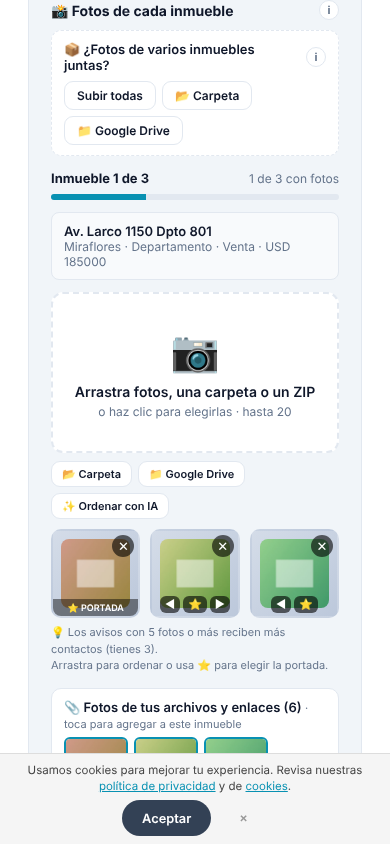
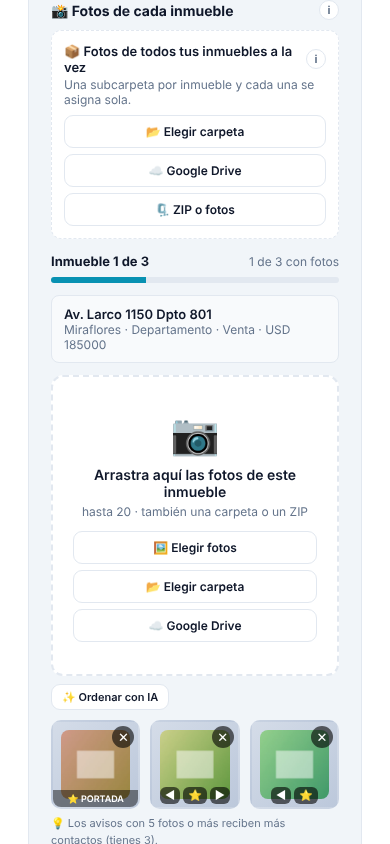
feat(fotos): fuentes de fotos claras — Elegir fotos, Elegir carpeta y Google Drive en un solo lugar
- Cada zona de fotos (Publicar uno, Subir varios y editor 📷 Fotos) tiene
  dentro las tres formas de traer fotos con el mismo nombre en todas partes:
  🖼 Elegir fotos (o un ZIP), 📂 Elegir carpeta y ☁ Google Drive. Ya no se
  repiten bajo la tira; ahí queda solo ✨ Ordenar con IA (con 2+ fotos).
- Barra de varios inmuebles: "📦 Fotos de todos tus inmuebles a la vez — Una
  subcarpeta por inmueble y cada una se asigna sola", con Elegir carpeta,
  Google Drive y ZIP o fotos; el ejemplo y el detalle en ⓘ.
- Ventana de Google Drive: 3 pasos numerados (Compartir → Cualquier persona
  con el enlace → Copiar enlace → pegar) y "tu carpeta no cambia".
- Tests y capturas actualizados.

Claude-Session: https://claude.ai/code/session_01XtnRGX13fvBQF8o6qyWVXV

diff --git a/index.html b/index.html
@@ -6858,8 +6858,9 @@ function _rps(){
           ondragleave="this.classList.remove('drag')"
           ondrop="_pubDropPhotos(event,_pubHandleFiles)">
           <div class="dz-icon">📷</div>
-          <div class="dz-lbl">Arrastra fotos, una carpeta o un ZIP</div>
-          <div class="dz-sub">o haz clic para elegirlas · mínimo 3, máximo ${_PUB_MAX_PHOTOS} · la primera es la portada</div>
+          <div class="dz-lbl">Arrastra aquí las fotos</div>
+          <div class="dz-sub">mínimo 3, máximo ${_PUB_MAX_PHOTOS} · la primera es la portada</div>
+          ${_pubPhotoSourcesHTML('pd')}
         </label>
         <input type="file" id="pubFileInput" accept="${_PUB_PHOTO_ACCEPT}" multiple style="position:absolute;width:1px;height:1px;overflow:hidden;clip:rect(0,0,0,0);opacity:0" onchange="_pubHandleFiles(this.files)">
         <div class="pub-photos" id="pubPhotoPreview" style="margin-top:12px">${_pubPhotoStripHTML('pd',_pd.photos)}</div>
@@ -7218,10 +7219,13 @@ function _pubDropPhotos(ev,fn){
   if(ev.currentTarget) ev.currentTarget.classList.remove('drag');
   _pubDroppedFiles(ev.dataTransfer).then(fn);
 }
+// Elegir fotos sueltas o un ZIP y pasarlos a fn.
+function _pubPickFiles(fn){ _pubPickFolder(fn,true); }
 // Elegir una carpeta entera (con sus subcarpetas) y pasarla a fn.
-function _pubPickFolder(fn){
+function _pubPickFolder(fn,sueltas){
   const inp=document.createElement('input');
-  inp.type='file'; inp.multiple=true; inp.setAttribute('webkitdirectory',''); inp.setAttribute('directory','');
+  inp.type='file'; inp.multiple=true;
+  if(sueltas) inp.accept=_PUB_PHOTO_ACCEPT; else { inp.setAttribute('webkitdirectory',''); inp.setAttribute('directory',''); }
   inp.style.cssText='position:absolute;left:-9999px;width:1px;height:1px;opacity:0';
   inp.onchange=()=>{ const files=Array.from(inp.files||[]); inp.remove(); fn(files); };
   document.body.appendChild(inp);
@@ -7290,8 +7294,11 @@ function _pubPeRender(){
     <div class="pub-photos" id="pubPePhotos">${_pubPhotoStripHTML('pe',_pe.photos)}</div>
     ${_pubPhotoAdviceHTML(_pe.photos)}
     ${_pubPhotoToolsHTML('pe')}
-    <label class="pub-btn ghost" style="display:inline-block;font-size:12px;padding:7px 14px;margin-top:10px;cursor:pointer">+ Agregar fotos
-      <input type="file" accept="${_PUB_PHOTO_ACCEPT}" multiple style="display:none" onchange="_pubPeAdd(this.files);this.value=''"></label>
+    <div style="margin-top:12px;padding:12px;border:2px dashed var(--border);border-radius:10px;text-align:center"
+      ondragover="event.preventDefault()" ondrop="_pubDropPhotos(event,_pubPeAdd)">
+      <div style="font-size:13px;font-weight:600">+ Agregar fotos</div>
+      ${_pubPhotoSourcesHTML('pe')}
+    </div>
     <div style="display:flex;justify-content:flex-end;gap:8px;margin-top:14px">
       <button class="pub-btn primary" id="pubPeSave" ${_pe.guardando?'disabled':''} onclick="_pubPeSave()">${_pe.guardando?'Guardando…':`Guardar${nuevas?` (${nuevas} nueva${nuevas!==1?'s':''})`:''}`}</button>
     </div></div>`;
@@ -7421,14 +7428,24 @@ async function _pubPhotoAiRun(ns){
     _pubPhotoAiBusy=null; _pubPhotoRefresh(ns);
   }
 }
-// Botones bajo la tira de fotos: Google Drive y ordenar con IA.
+// Las tres formas de traer fotos, siempre juntas y con el mismo nombre:
+// fotos sueltas (o un ZIP), una carpeta de la computadora y Google Drive.
+// Van dentro de la zona de fotos (por eso no propagan el clic).
+function _pubPhotoSourcesHTML(ns){
+  const b='flex:1 1 140px;font-size:12px;padding:8px 10px';
+  const no='event.preventDefault();event.stopPropagation();';
+  return `<div class="pub-photo-sources" style="display:flex;gap:6px;flex-wrap:wrap;justify-content:center;margin-top:12px;width:100%;max-width:520px;margin-left:auto;margin-right:auto">
+    <button type="button" class="pub-btn ghost" style="${b}" onclick="${no}_pubPickFiles(f=>_pubDriveAdd('${ns}',f))" title="Fotos sueltas o un ZIP de tu computadora o celular">🖼 Elegir fotos</button>
+    <button type="button" class="pub-btn ghost" style="${b}" onclick="${no}_pubPickFolder(f=>_pubDriveAdd('${ns}',f))" title="Todas las fotos de una carpeta de tu computadora">📂 Elegir carpeta</button>
+    <button type="button" class="pub-btn ghost" style="${b}" onclick="${no}_pubDriveOpen('${ns}')" title="Pega el enlace de una carpeta compartida de Google Drive">☁ Google Drive</button>
+  </div>`;
+}
+// Bajo la tira de fotos: ordenar con IA (con 2 fotos o más).
 function _pubPhotoToolsHTML(ns){
   const n=_pubPhotoListOf(ns).length;
-  const b='font-size:11px;padding:5px 10px';
+  if(!_AI_COPY_ENABLED || n<2) return '';
   return `<div class="pub-photo-tools" style="display:flex;gap:6px;flex-wrap:wrap;margin-top:8px">
-    <button type="button" class="pub-btn ghost" style="${b}" onclick="_pubPickFolder(f=>_pubDriveAdd('${ns}',f))" title="Elige una carpeta de tu computadora">📂 Carpeta</button>
-    <button type="button" class="pub-btn ghost" style="${b}" onclick="_pubDriveOpen('${ns}')">📁 Google Drive</button>
-    ${_AI_COPY_ENABLED&&n>1?`<button type="button" class="pub-btn ghost" style="${b}" ${_pubPhotoAiBusy?'disabled':''} onclick="_pubPhotoAiRun('${ns}')" title="Elige la portada, ordena por ambientes y avisa de marcas de agua">${_pubPhotoAiBusy===ns?'✨ Revisando fotos…':'✨ Ordenar con IA'}</button>`:''}
+    <button type="button" class="pub-btn ghost" style="font-size:11px;padding:5px 10px" ${_pubPhotoAiBusy?'disabled':''} onclick="_pubPhotoAiRun('${ns}')" title="Elige la portada, ordena por ambientes y avisa de marcas de agua">${_pubPhotoAiBusy===ns?'✨ Revisando fotos…':'✨ Ordenar con IA'}</button>
   </div>`;
 }
 
@@ -7599,15 +7616,19 @@ function _pubDriveRender(){
   const r=_drv.res, ocupado=!!_drv.estado;
   const elegir=r && !ocupado && _drv.ns!=='batch' && r.carpetas.length;
   ov.innerHTML=`<div class="us-card" style="width:100%;max-width:560px;margin:0">
-    <div style="display:flex;justify-content:space-between;align-items:center;gap:8px"><div style="font-weight:800;font-size:1.05rem">📁 Fotos desde Google Drive</div>
+    <div style="display:flex;justify-content:space-between;align-items:center;gap:8px"><div style="font-weight:800;font-size:1.05rem">☁ Traer fotos de Google Drive</div>
       <button class="pub-btn ghost" style="font-size:12px;padding:6px 12px" ${ocupado?'disabled':''} onclick="_pubDriveClose()">Cerrar</button></div>
-    <div style="font-size:.8rem;color:var(--muted);margin:6px 0 10px;line-height:1.5">Pega el enlace de la carpeta (o de una foto). En Drive: <b>Compartir → Acceso general → Cualquier persona con el enlace</b> → Copiar enlace.
-      ${_drv.ns==='batch'?'<br>Si la carpeta tiene <b>una subcarpeta por inmueble</b>, armamos un grupo con cada una.':''}</div>
+    <ol style="font-size:.82rem;line-height:1.6;margin:8px 0 10px;padding-left:20px">
+      <li>En Google Drive, clic derecho en la carpeta${_drv.ns==='batch'?' (la que tiene una subcarpeta por inmueble)':' de este inmueble'} → <b>Compartir</b>.</li>
+      <li>En "Acceso general" elige <b>Cualquier persona con el enlace</b> y toca <b>Copiar enlace</b>.</li>
+      <li>Pégalo aquí:</li>
+    </ol>
     <div style="display:flex;gap:6px;flex-wrap:wrap">
       <input id="pubDriveLink" type="url" placeholder="https://drive.google.com/drive/folders/…" value="${esc(_drv.link)}" ${ocupado?'disabled':''}
         onkeydown="if(event.key==='Enter')_pubDriveLink()" style="flex:1;min-width:200px;border:1px solid var(--border);border-radius:8px;padding:8px 10px;font-size:13px">
       <button class="pub-btn primary" style="font-size:12px;padding:7px 14px" ${ocupado?'disabled':''} onclick="_pubDriveLink()">Traer fotos</button>
     </div>
+    <div style="font-size:11px;color:var(--muted);margin-top:6px">Copiamos las fotos a ReCo; tu carpeta no cambia.</div>
     ${_GOOGLE_DRIVE.clientId?`<div style="text-align:center;font-size:11px;color:var(--muted);margin:10px 0 6px">o, si la carpeta no está compartida</div>
       <button class="pub-btn ghost" style="width:100%;font-size:12px;padding:8px" ${ocupado?'disabled':''} onclick="_pubDrivePick()">Elegir fotos de mi Google Drive</button>`:''}
     <div id="pubDriveStatus" style="font-size:12px;margin-top:10px;color:${_drv.error?'var(--red)':'var(--muted)'}">${esc(_drv.error||_drv.estado)}</div>
@@ -8411,16 +8432,18 @@ function _pubPhotoBatchHTML(rows){
   if(!_pubPhotoGroups.length){
     // Con un solo inmueble basta la zona de fotos de abajo.
     if(rows.length<2) return input;
-    const ayuda='Sube las fotos de todos tus inmuebles juntas (fotos sueltas, una carpeta, un ZIP o Google Drive). Si vienen en una subcarpeta por inmueble, cada subcarpeta va a su inmueble; si no, las agrupamos por fecha y lugar. Después revisas y confirmas.';
-    const b='font-size:12px;padding:6px 12px';
-    return `${input}<div style="display:flex;align-items:center;gap:8px;flex-wrap:wrap;margin-top:10px;padding:10px 12px;border:1px dashed var(--border);border-radius:10px;background:#fff"
+    const ayuda='Ordena las fotos en una carpeta con una subcarpeta por inmueble, por ejemplo "Fotos/Av. Pardo 340" y "Fotos/Jr. Huiracocha 1200", y súbela entera (desde tu computadora, como ZIP o desde Google Drive). Cada subcarpeta se asigna sola al inmueble con el nombre más parecido. Si las fotos no están en subcarpetas, las agrupamos por fecha y lugar. Siempre revisas antes de confirmar.';
+    const b='flex:1 1 140px;font-size:12px;padding:8px 10px';
+    return `${input}<div style="margin-top:10px;padding:12px;border:1px dashed var(--border);border-radius:10px;background:#fff"
         ondragover="event.preventDefault()" ondrop="_pubDropPhotos(event,_pubPhotoBatchFiles)">
-      <span style="display:inline-flex;align-items:center;gap:6px;font-size:13px;font-weight:600">📦 ¿Fotos de varios inmuebles juntas? ${_pubInfoHTML('pubLoteAyuda',ayuda)}</span>
-      <span style="margin-left:auto;display:flex;gap:6px;flex-wrap:wrap">
-        <button class="pub-btn ghost" style="${b}" onclick="document.getElementById('pubBatchInput').click()">Subir todas</button>
-        <button class="pub-btn ghost" style="${b}" onclick="_pubPickFolder(_pubPhotoBatchFiles)">📂 Carpeta</button>
-        <button class="pub-btn ghost" style="${b}" onclick="_pubDriveOpen('batch')">📁 Google Drive</button>
-      </span></div>${_pubInfoBoxHTML('pubLoteAyuda',ayuda)}`;
+      <div style="display:flex;align-items:center;gap:6px;font-size:13px;font-weight:600">📦 Fotos de todos tus inmuebles a la vez<span style="margin-left:auto"></span>${_pubInfoHTML('pubLoteAyuda',ayuda)}</div>
+      <div style="font-size:12px;color:var(--muted);margin-top:2px">Una subcarpeta por inmueble y cada una se asigna sola.</div>
+      ${_pubInfoBoxHTML('pubLoteAyuda',ayuda)}
+      <div style="display:flex;gap:6px;flex-wrap:wrap;margin-top:8px">
+        <button class="pub-btn ghost" style="${b}" onclick="_pubPickFolder(_pubPhotoBatchFiles)" title="La carpeta con una subcarpeta por inmueble">📂 Elegir carpeta</button>
+        <button class="pub-btn ghost" style="${b}" onclick="_pubDriveOpen('batch')" title="Pega el enlace de la carpeta compartida">☁ Google Drive</button>
+        <button class="pub-btn ghost" style="${b}" onclick="document.getElementById('pubBatchInput').click()" title="Un ZIP o muchas fotos sueltas">🗜 ZIP o fotos</button>
+      </div></div>`;
   }
   const opts=sel=>`<option value="-1"${sel===-1?' selected':''}>— no asignar —</option>`+rows.map((r,i)=>`<option value="${i}"${sel===i?' selected':''}>${i+1}. ${esc(String(r.row.direccion||r.row.titulo||'').slice(0,40))}</option>`).join('');
   return `${input}<div style="margin-top:12px;border:1px solid var(--border);border-radius:10px;padding:10px 12px;background:#fff">
@@ -8463,8 +8486,9 @@ function _pubBulkPhotosHTML(){
       ondragleave="this.classList.remove('drag')"
       ondrop="_pubDropPhotos(event,_pubBulkPhotoFiles)">
       <div class="dz-icon">📷</div>
-      <div class="dz-lbl">Arrastra fotos, una carpeta o un ZIP</div>
-      <div class="dz-sub">o haz clic para elegirlas · hasta ${_PUB_BULK_PHOTO_MAX}</div>
+      <div class="dz-lbl">Arrastra aquí las fotos de este inmueble</div>
+      <div class="dz-sub">hasta ${_PUB_BULK_PHOTO_MAX} · también una carpeta o un ZIP</div>
+      ${_pubPhotoSourcesHTML('bulk')}
     </div>
     <input type="file" id="pubBulkPhotoInput" accept="${_PUB_PHOTO_ACCEPT}" multiple
       style="position:absolute;left:-9999px;top:0;width:1px;height:1px;opacity:0;pointer-events:none"

diff --git a/tests/fotos-carpetas.spec.js b/tests/fotos-carpetas.spec.js
@@ -37,8 +37,10 @@ test.describe('Fotos desde la computadora', () => {
       return { n: _pubBulkCurrentRow().photos.length, html: document.getElementById('pubBulkStepBody').innerHTML };
     });
     expect(r.n).toBe(2);
-    expect(r.html).toContain('Arrastra fotos, una carpeta o un ZIP');
-    expect(r.html).toContain('📂 Carpeta');
+    expect(r.html).toContain('Arrastra aquí las fotos de este inmueble');
+    expect(r.html).toContain('🖼 Elegir fotos');
+    expect(r.html).toContain('📂 Elegir carpeta');
+    expect(r.html).toContain('☁ Google Drive');
     expect(r.html).not.toContain('Agrega las fotos, inmueble por inmueble');
   });
 
@@ -64,7 +66,7 @@ test.describe('Fotos desde la computadora', () => {
       await _pubPhotoBatchFiles([zip]);
       return { html, grupos: _pubPhotoGroups.map((g) => ({ nombre: g.nombre, n: g.photos.length, row: g.row })) };
     });
-    expect(r.html).toContain('¿Fotos de varios inmuebles juntas?');
+    expect(r.html).toContain('Fotos de todos tus inmuebles a la vez');
     expect(r.grupos).toEqual([
       { nombre: 'Huiracocha 1200', n: 2, row: 1 },
       { nombre: 'Pardo 340 Miraflores', n: 1, row: 0 },
@@ -79,7 +81,7 @@ test.describe('Fotos desde la computadora', () => {
       _pubBulkRefresh();
       return document.getElementById('pubBulkStepBody').innerHTML;
     });
-    expect(r).not.toContain('¿Fotos de varios inmuebles juntas?');
+    expect(r).not.toContain('Fotos de todos tus inmuebles a la vez');
     expect(r).toContain('📎 Fotos de tus archivos y enlaces (2)');
   });
 });

diff --git a/tests/fotos-ia-drive.spec.js b/tests/fotos-ia-drive.spec.js
@@ -58,8 +58,9 @@ test.describe('Fotos con IA', () => {
         strip: _pubPhotoStripHTML('pd', _pd.photos), advice: _pubPhotoAdviceHTML(_pd.photos), toasts: __toasts.join(' | ') };
     });
     expect(r.tools).toContain('✨ Ordenar con IA');
-    expect(r.tools).toContain('📁 Google Drive');
-    expect(r.tools).toContain('📂 Carpeta');
+    const fuentes = await page.evaluate(() => _pubPhotoSourcesHTML('pd'));
+    expect(fuentes).toContain('☁ Google Drive');
+    expect(fuentes).toContain('📂 Elegir carpeta');
     expect(r.orden).toEqual([2, 0, 1]);
     expect(r.dims.every((d) => d <= 512)).toBe(true); // a la IA va una copia chica
     expect(r.issues).toEqual([[], [], ['Marca de agua']]);
@@ -176,7 +177,7 @@ test.describe('Fotos desde Google Drive', () => {
       Object.assign(__drive.archivos, { FOTOHUI001: { name: 'a.jpg', mimeType: 'image/jpeg' }, FOTOHUI002: { name: 'b.jpg', mimeType: 'image/jpeg' },
         FOTOPAR001: { name: 'c.jpg', mimeType: 'image/jpeg' } });
     });
-    await page.locator('#pubModal button', { hasText: '📁 Google Drive' }).first().click();
+    await page.locator('#pubModal button', { hasText: '☁ Google Drive' }).first().click();
     await expect(page.locator('#pubDriveOverlay')).toContainText('una subcarpeta por inmueble');
     await page.locator('#pubDriveLink').fill('https://drive.google.com/drive/folders/RAIZ000002');
     await page.locator('#pubDriveOverlay button', { hasText: 'Traer fotos' }).click();

diff --git a/tests/import-fase2.spec.js b/tests/import-fase2.spec.js
@@ -76,7 +76,7 @@ test.describe('Fase 2: fotos en bloque', () => {
       _pubBulkLoadRows([{ ...base, direccion: 'Casa A' }, { ...base, direccion: 'Casa B' }]);
       _pubBulkGo(3);
     });
-    expect(await page.evaluate(() => document.getElementById('pubBulkStepBody').innerHTML)).toContain('Subir todas');
+    expect(await page.evaluate(() => document.getElementById('pubBulkStepBody').innerHTML)).toContain('🗜 ZIP o fotos');
     await page.setInputFiles('#pubBatchInput', FOTOS);
     await page.waitForFunction(() => _pubPhotoGroups.length > 0, null, { timeout: 30000 });
     const g = await page.evaluate(() => ({ groups: _pubPhotoGroups.map(x => [x.photos.length, x.row]), html: document.getElementById('pubBulkStepBody').innerHTML }));
